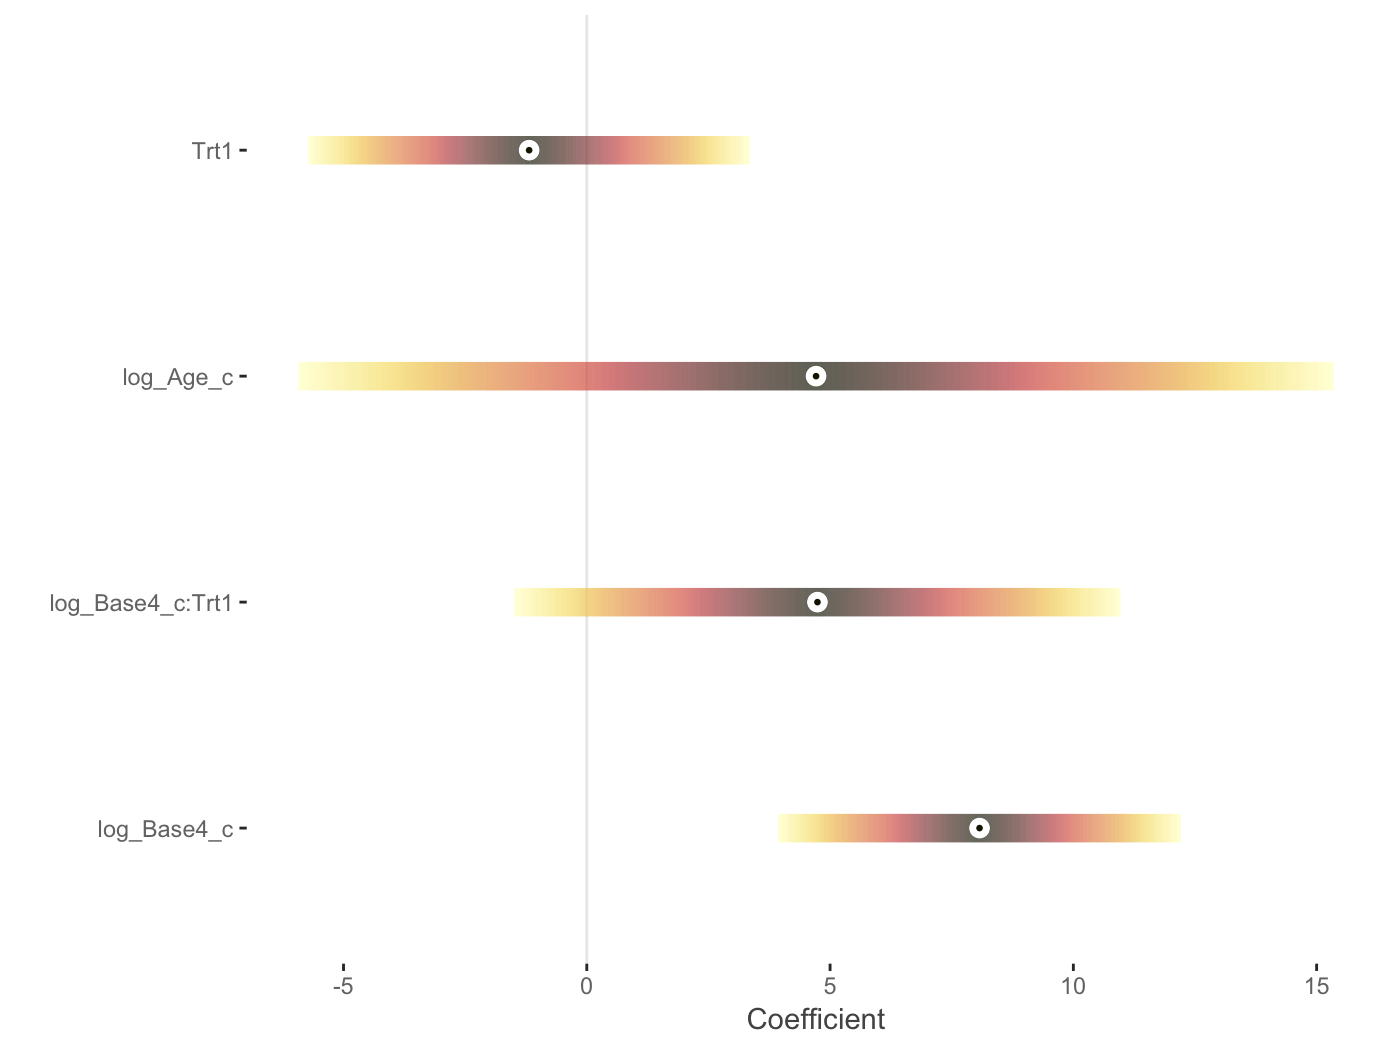
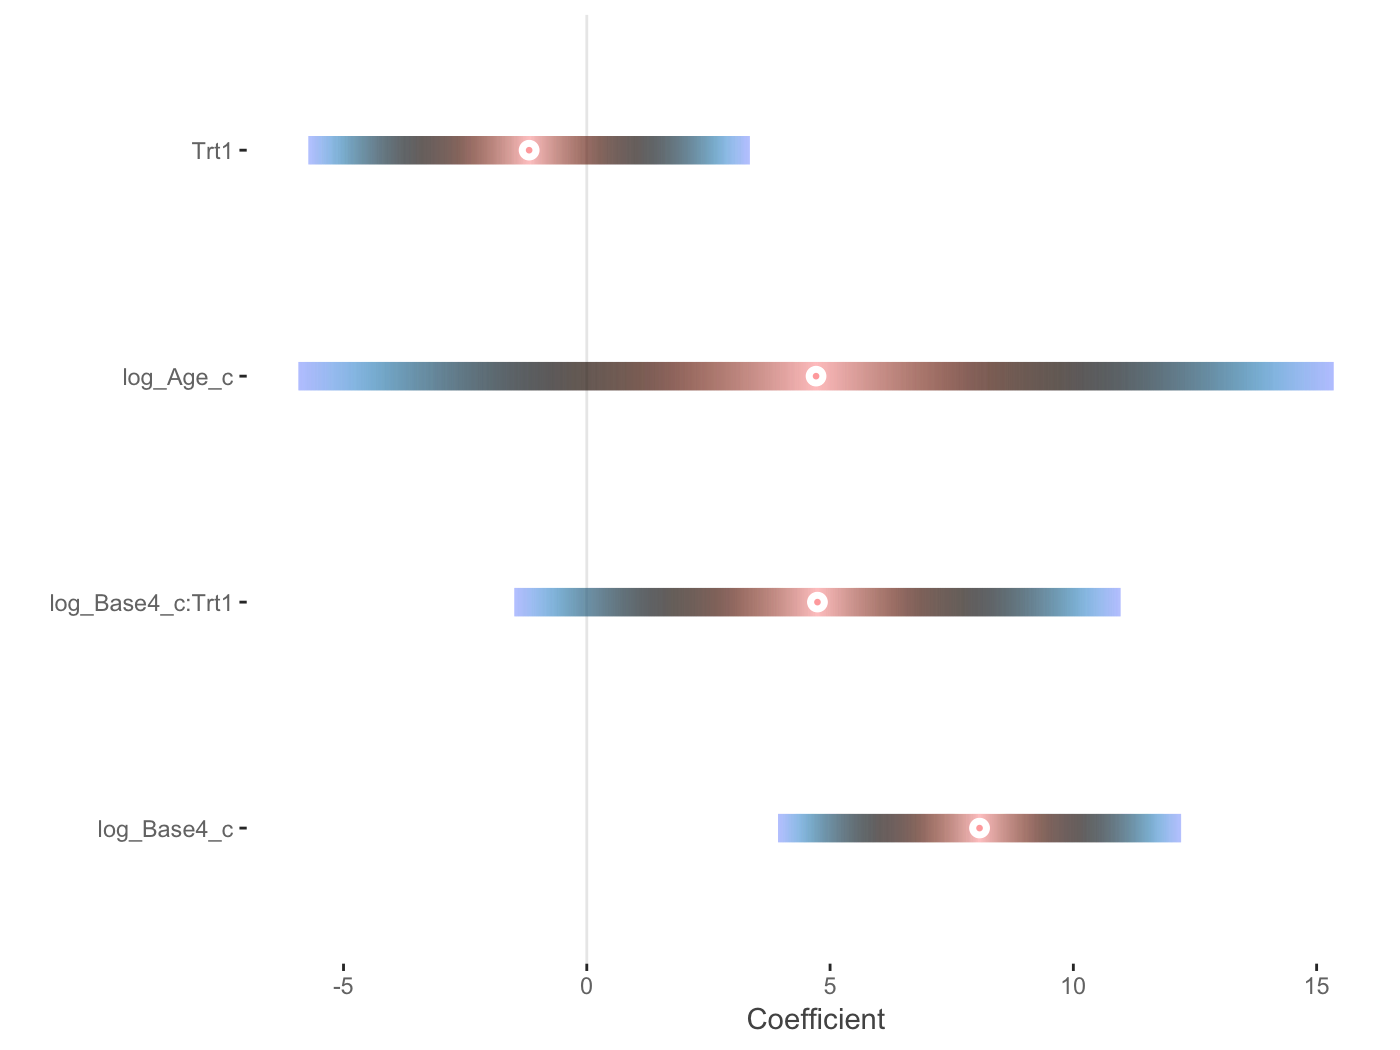
code cleanup

diff --git a/docs/index.html b/docs/index.html
@@ -109,7 +109,7 @@
 <div id="examples" class="section level2">
 <h2 class="hasAnchor">
 <a href="#examples" class="anchor"></a>Examples</h2>
-<p>Create a palette. This requires the <span class="pack">colortools</span> package to create equally spaced colors.</p>
+<p>Create a palette from a single starting point. This requires the <span class="pack">colortools</span> package to create equally spaced colors.</p>
 <div class="sourceCode" id="cb2"><pre class="sourceCode r"><code class="sourceCode r"><a class="sourceLine" id="cb2-1" data-line-number="1"><span class="kw">library</span>(visibly)</a>
 <a class="sourceLine" id="cb2-2" data-line-number="2"><span class="kw"><a href="reference/create_palette.html">create_palette</a></span>(<span class="st">'papayawhip'</span>)</a>
 <a class="sourceLine" id="cb2-3" data-line-number="3"><span class="op">$</span>papayawhip</a>
@@ -209,8 +209,8 @@ $tetradic
 <a class="sourceLine" id="cb8-3" data-line-number="3"><span class="st">  </span><span class="kw"><a href="http://www.rdocumentation.org/packages/plotly/topics/plot_ly">plot_ly</a></span>(<span class="dt">x=</span><span class="op">~</span>wt, <span class="dt">y=</span><span class="op">~</span>mpg, <span class="dt">color=</span><span class="op">~</span>cyl) <span class="op">%&gt;%</span><span class="st"> </span></a>
 <a class="sourceLine" id="cb8-4" data-line-number="4"><span class="st">  </span><span class="kw"><a href="http://www.rdocumentation.org/packages/plotly/topics/add_trace">add_markers</a></span>(<span class="dt">size =</span><span class="op">~</span><span class="st"> </span><span class="kw">I</span>(<span class="dv">20</span>)) <span class="op">%&gt;%</span><span class="st"> </span></a>
 <a class="sourceLine" id="cb8-5" data-line-number="5"><span class="st">  </span><span class="kw"><a href="reference/theme_trueMinimal.html">theme_plotly</a></span>()</a></code></pre></div>
-<div id="96e615ef844" style="width:75%;height:525.0000024px;" class="plotly html-widget"></div>
-<script type="application/json" data-for="96e615ef844">{"x":{"visdat":{"96e63f862ab9":["function () ","plotlyVisDat"]},"cur_data":"96e63f862ab9","attrs":{"96e63f862ab9":{"x":{},"y":{},"color":{},"alpha":1,"sizes":[10,100],"type":"scatter","mode":"markers","size":{}}},"layout":{"margin":{"b":40,"l":60,"t":25,"r":10},"xaxis":{"domain":[0,1],"zeroline":false,"showgrid":false,"title":"wt"},"yaxis":{"domain":[0,1],"zeroline":false,"showgrid":false,"title":"mpg"},"plot_bgcolor":"transparent","paper_bgcolor":"transparent","hovermode":"closest","showlegend":false,"legend":{"y":0.5,"yanchor":"top"}},"source":"A","config":{"modeBarButtonsToAdd":[{"name":"Collaborate","icon":{"width":1000,"ascent":500,"descent":-50,"path":"M487 375c7-10 9-23 5-36l-79-259c-3-12-11-23-22-31-11-8-22-12-35-12l-263 0c-15 0-29 5-43 15-13 10-23 23-28 37-5 13-5 25-1 37 0 0 0 3 1 7 1 5 1 8 1 11 0 2 0 4-1 6 0 3-1 5-1 6 1 2 2 4 3 6 1 2 2 4 4 6 2 3 4 5 5 7 5 7 9 16 13 26 4 10 7 19 9 26 0 2 0 5 0 9-1 4-1 6 0 8 0 2 2 5 4 8 3 3 5 5 5 7 4 6 8 15 12 26 4 11 7 19 7 26 1 1 0 4 0 9-1 4-1 7 0 8 1 2 3 5 6 8 4 4 6 6 6 7 4 5 8 13 13 24 4 11 7 20 7 28 1 1 0 4 0 7-1 3-1 6-1 7 0 2 1 4 3 6 1 1 3 4 5 6 2 3 3 5 5 6 1 2 3 5 4 9 2 3 3 7 5 10 1 3 2 6 4 10 2 4 4 7 6 9 2 3 4 5 7 7 3 2 7 3 11 3 3 0 8 0 13-1l0-1c7 2 12 2 14 2l218 0c14 0 25-5 32-16 8-10 10-23 6-37l-79-259c-7-22-13-37-20-43-7-7-19-10-37-10l-248 0c-5 0-9-2-11-5-2-3-2-7 0-12 4-13 18-20 41-20l264 0c5 0 10 2 16 5 5 3 8 6 10 11l85 282c2 5 2 10 2 17 7-3 13-7 17-13z m-304 0c-1-3-1-5 0-7 1-1 3-2 6-2l174 0c2 0 4 1 7 2 2 2 4 4 5 7l6 18c0 3 0 5-1 7-1 1-3 2-6 2l-173 0c-3 0-5-1-8-2-2-2-4-4-4-7z m-24-73c-1-3-1-5 0-7 2-2 3-2 6-2l174 0c2 0 5 0 7 2 3 2 4 4 5 7l6 18c1 2 0 5-1 6-1 2-3 3-5 3l-174 0c-3 0-5-1-7-3-3-1-4-4-5-6z"},"click":"function(gd) { \n        // is this being viewed in RStudio?\n        if (location.search == '?viewer_pane=1') {\n          alert('To learn about plotly for collaboration, visit:\\n https://cpsievert.github.io/plotly_book/plot-ly-for-collaboration.html');\n        } else {\n          window.open('https://cpsievert.github.io/plotly_book/plot-ly-for-collaboration.html', '_blank');\n        }\n      }"}],"cloud":false,"displayModeBar":false},"data":[{"x":[2.62,2.875,2.32,3.215,3.44,3.46,3.57,3.19,3.15,3.44,3.44,4.07,3.73,3.78,5.25,5.424,5.345,2.2,1.615,1.835,2.465,3.52,3.435,3.84,3.845,1.935,2.14,1.513,3.17,2.77,3.57,2.78],"y":[21,21,22.8,21.4,18.7,18.1,14.3,24.4,22.8,19.2,17.8,16.4,17.3,15.2,10.4,10.4,14.7,32.4,30.4,33.9,21.5,15.5,15.2,13.3,19.2,27.3,26,30.4,15.8,19.7,15,21.4],"type":"scatter","mode":"markers","marker":{"size":20,"sizemode":"area","colorbar":{"title":"cyl","ticklen":2},"cmin":4,"cmax":8,"colorscale":[["0","rgba(68,1,84,1)"],["0.166666666666666","rgba(68,58,128,1)"],["0.5","rgba(37,144,140,1)"],["1","rgba(253,231,37,1)"]],"showscale":false,"color":[6,6,4,6,8,6,8,4,4,6,6,8,8,8,8,8,8,4,4,4,4,8,8,8,8,4,4,4,8,6,8,4],"line":{"color":"transparent"}},"xaxis":"x","yaxis":"y","frame":null},{"x":[1.513,5.424],"y":[10.4,33.9],"type":"scatter","mode":"markers","opacity":0,"hoverinfo":"none","showlegend":false,"marker":{"colorbar":{"title":"cyl","ticklen":2,"len":0.5,"y":1,"lenmode":"fraction","yanchor":"top"},"cmin":4,"cmax":8,"colorscale":[["0","rgba(68,1,84,1)"],["0.166666666666666","rgba(68,58,128,1)"],["0.5","rgba(37,144,140,1)"],["1","rgba(253,231,37,1)"]],"showscale":true,"color":[4,8]},"xaxis":"x","yaxis":"y","frame":null}],"highlight":{"on":"plotly_click","persistent":false,"dynamic":false,"selectize":false,"opacityDim":0.2,"selected":{"opacity":1}},"base_url":"https://plot.ly"},"evals":["config.modeBarButtonsToAdd.0.click"],"jsHooks":{"render":[{"code":"function(el, x) { var ctConfig = crosstalk.var('plotlyCrosstalkOpts').set({\"on\":\"plotly_click\",\"persistent\":false,\"dynamic\":false,\"selectize\":false,\"opacityDim\":0.2,\"selected\":{\"opacity\":1}}); }","data":null}]}}</script><p>Plot some model coefficients. Requires the <span class="pack">scico</span> package.</p>
+<div id="af863f81a3f3" style="width:75%;height:525.0000024px;" class="plotly html-widget"></div>
+<script type="application/json" data-for="af863f81a3f3">{"x":{"visdat":{"af867a5e3750":["function () ","plotlyVisDat"]},"cur_data":"af867a5e3750","attrs":{"af867a5e3750":{"x":{},"y":{},"color":{},"alpha":1,"sizes":[10,100],"type":"scatter","mode":"markers","size":{}}},"layout":{"margin":{"b":40,"l":60,"t":25,"r":10},"xaxis":{"domain":[0,1],"zeroline":false,"showgrid":false,"title":"wt"},"yaxis":{"domain":[0,1],"zeroline":false,"showgrid":false,"title":"mpg"},"plot_bgcolor":"transparent","paper_bgcolor":"transparent","hovermode":"closest","showlegend":false,"legend":{"y":0.5,"yanchor":"top"}},"source":"A","config":{"modeBarButtonsToAdd":[{"name":"Collaborate","icon":{"width":1000,"ascent":500,"descent":-50,"path":"M487 375c7-10 9-23 5-36l-79-259c-3-12-11-23-22-31-11-8-22-12-35-12l-263 0c-15 0-29 5-43 15-13 10-23 23-28 37-5 13-5 25-1 37 0 0 0 3 1 7 1 5 1 8 1 11 0 2 0 4-1 6 0 3-1 5-1 6 1 2 2 4 3 6 1 2 2 4 4 6 2 3 4 5 5 7 5 7 9 16 13 26 4 10 7 19 9 26 0 2 0 5 0 9-1 4-1 6 0 8 0 2 2 5 4 8 3 3 5 5 5 7 4 6 8 15 12 26 4 11 7 19 7 26 1 1 0 4 0 9-1 4-1 7 0 8 1 2 3 5 6 8 4 4 6 6 6 7 4 5 8 13 13 24 4 11 7 20 7 28 1 1 0 4 0 7-1 3-1 6-1 7 0 2 1 4 3 6 1 1 3 4 5 6 2 3 3 5 5 6 1 2 3 5 4 9 2 3 3 7 5 10 1 3 2 6 4 10 2 4 4 7 6 9 2 3 4 5 7 7 3 2 7 3 11 3 3 0 8 0 13-1l0-1c7 2 12 2 14 2l218 0c14 0 25-5 32-16 8-10 10-23 6-37l-79-259c-7-22-13-37-20-43-7-7-19-10-37-10l-248 0c-5 0-9-2-11-5-2-3-2-7 0-12 4-13 18-20 41-20l264 0c5 0 10 2 16 5 5 3 8 6 10 11l85 282c2 5 2 10 2 17 7-3 13-7 17-13z m-304 0c-1-3-1-5 0-7 1-1 3-2 6-2l174 0c2 0 4 1 7 2 2 2 4 4 5 7l6 18c0 3 0 5-1 7-1 1-3 2-6 2l-173 0c-3 0-5-1-8-2-2-2-4-4-4-7z m-24-73c-1-3-1-5 0-7 2-2 3-2 6-2l174 0c2 0 5 0 7 2 3 2 4 4 5 7l6 18c1 2 0 5-1 6-1 2-3 3-5 3l-174 0c-3 0-5-1-7-3-3-1-4-4-5-6z"},"click":"function(gd) { \n        // is this being viewed in RStudio?\n        if (location.search == '?viewer_pane=1') {\n          alert('To learn about plotly for collaboration, visit:\\n https://cpsievert.github.io/plotly_book/plot-ly-for-collaboration.html');\n        } else {\n          window.open('https://cpsievert.github.io/plotly_book/plot-ly-for-collaboration.html', '_blank');\n        }\n      }"}],"cloud":false,"displayModeBar":false},"data":[{"x":[2.62,2.875,2.32,3.215,3.44,3.46,3.57,3.19,3.15,3.44,3.44,4.07,3.73,3.78,5.25,5.424,5.345,2.2,1.615,1.835,2.465,3.52,3.435,3.84,3.845,1.935,2.14,1.513,3.17,2.77,3.57,2.78],"y":[21,21,22.8,21.4,18.7,18.1,14.3,24.4,22.8,19.2,17.8,16.4,17.3,15.2,10.4,10.4,14.7,32.4,30.4,33.9,21.5,15.5,15.2,13.3,19.2,27.3,26,30.4,15.8,19.7,15,21.4],"type":"scatter","mode":"markers","marker":{"size":20,"sizemode":"area","colorbar":{"title":"cyl","ticklen":2},"cmin":4,"cmax":8,"colorscale":[["0","rgba(68,1,84,1)"],["0.166666666666666","rgba(68,58,128,1)"],["0.5","rgba(37,144,140,1)"],["1","rgba(253,231,37,1)"]],"showscale":false,"color":[6,6,4,6,8,6,8,4,4,6,6,8,8,8,8,8,8,4,4,4,4,8,8,8,8,4,4,4,8,6,8,4],"line":{"color":"transparent"}},"xaxis":"x","yaxis":"y","frame":null},{"x":[1.513,5.424],"y":[10.4,33.9],"type":"scatter","mode":"markers","opacity":0,"hoverinfo":"none","showlegend":false,"marker":{"colorbar":{"title":"cyl","ticklen":2,"len":0.5,"y":1,"lenmode":"fraction","yanchor":"top"},"cmin":4,"cmax":8,"colorscale":[["0","rgba(68,1,84,1)"],["0.166666666666666","rgba(68,58,128,1)"],["0.5","rgba(37,144,140,1)"],["1","rgba(253,231,37,1)"]],"showscale":true,"color":[4,8]},"xaxis":"x","yaxis":"y","frame":null}],"highlight":{"on":"plotly_click","persistent":false,"dynamic":false,"selectize":false,"opacityDim":0.2,"selected":{"opacity":1}},"base_url":"https://plot.ly"},"evals":["config.modeBarButtonsToAdd.0.click"],"jsHooks":{"render":[{"code":"function(el, x) { var ctConfig = crosstalk.var('plotlyCrosstalkOpts').set({\"on\":\"plotly_click\",\"persistent\":false,\"dynamic\":false,\"selectize\":false,\"opacityDim\":0.2,\"selected\":{\"opacity\":1}}); }","data":null}]}}</script><p>Plot some model coefficients. Requires the <span class="pack">scico</span> package.</p>
 <div class="sourceCode" id="cb9"><pre class="sourceCode r"><code class="sourceCode r"><a class="sourceLine" id="cb9-1" data-line-number="1">fit_lm =<span class="st"> </span><span class="kw">lm</span>(mpg <span class="op">~</span><span class="st"> </span>., mtcars)</a>
 <a class="sourceLine" id="cb9-2" data-line-number="2"><span class="kw"><a href="reference/plot_coefficients.html">plot_coefficients</a></span>(fit_lm)</a></code></pre></div>
 <p><img src="reference/figures/README-lm0-1.png" width="75%" style="display: block; margin: auto;"></p>
@@ -251,6 +251,7 @@ $tetradic
 <h2>Dev status</h2>
 <ul class="list-unstyled">
 <li><a href="https://travis-ci.org/m-clark/visibly"><img src="https://travis-ci.org/m-clark/visibly.svg?branch=master" alt="Build Status"></a></li>
+<li><a href="https://ci.appveyor.com/project/m-clark/visibly"><img src="https://ci.appveyor.com/api/projects/status/github/m-clark/visibly?branch=master&amp;svg=true" alt="AppVeyor Build Status"></a></li>
 <li><a href="https://codecov.io/github/m-clark/visibly?branch=master"><img src="https://img.shields.io/codecov/c/github/m-clark/visibly/master.svg" alt="Coverage Status"></a></li>
 </ul>
 </div>

diff --git a/docs/reference/theme_trueMinimal.html b/docs/reference/theme_trueMinimal.html
@@ -166,22 +166,16 @@ plot.</p>
 
     <h2 class="hasAnchor" id="examples"><a class="anchor" href="#examples"></a>Examples</h2>
     <pre class="examples"><div class='input'><span class='fu'>library</span>(<span class='no'>visibly</span>)
-<span class='fu'>library</span>(<span class='no'>ggplot2</span>)</div><div class='output co'>#&gt; <span class='message'>Want to understand how all the pieces fit together? See the R for Data</span>
-#&gt; <span class='message'>Science book: http://r4ds.had.co.nz/</span></div><div class='input'>
+<span class='fu'>library</span>(<span class='no'>ggplot2</span>)
+
 <span class='fu'>data</span>(<span class='no'>mtcars</span>)
 
 <span class='fu'><a href='http://www.rdocumentation.org/packages/ggplot2/topics/ggplot'>ggplot</a></span>(<span class='fu'><a href='http://www.rdocumentation.org/packages/ggplot2/topics/aes'>aes</a></span>(<span class='no'>wt</span>, <span class='no'>mpg</span>), <span class='kw'>data</span><span class='kw'>=</span><span class='no'>mtcars</span>) +
   <span class='fu'><a href='http://www.rdocumentation.org/packages/ggplot2/topics/geom_point'>geom_point</a></span>() +
   <span class='fu'><a href='http://www.rdocumentation.org/packages/ggplot2/topics/labs'>labs</a></span>(<span class='kw'>title</span><span class='kw'>=</span><span class='st'>'Plot'</span>) +
   <span class='fu'>theme_trueMinimal</span>()</div><div class='img'><img src='theme_trueMinimal-1.png' alt='' width='700' height='1133' /></div><div class='input'>
-<span class='fu'>library</span>(<span class='no'>plotly</span>)</div><div class='output co'>#&gt; <span class='message'></span>
-#&gt; <span class='message'>Attaching package: ‘plotly’</span></div><div class='output co'>#&gt; <span class='message'>The following object is masked from ‘package:ggplot2’:</span>
-#&gt; <span class='message'></span>
-#&gt; <span class='message'>    last_plot</span></div><div class='output co'>#&gt; <span class='message'>The following object is masked from ‘package:stats’:</span>
-#&gt; <span class='message'></span>
-#&gt; <span class='message'>    filter</span></div><div class='output co'>#&gt; <span class='message'>The following object is masked from ‘package:graphics’:</span>
-#&gt; <span class='message'></span>
-#&gt; <span class='message'>    layout</span></div><div class='input'><span class='no'>mtcars</span> <span class='kw'>%&gt;%</span>
+<span class='fu'>library</span>(<span class='no'>plotly</span>)
+<span class='no'>mtcars</span> <span class='kw'>%&gt;%</span>
   <span class='fu'><a href='http://www.rdocumentation.org/packages/plotly/topics/plot_ly'>plot_ly</a></span>(<span class='kw'>x</span><span class='kw'>=</span>~<span class='no'>wt</span>, <span class='kw'>y</span><span class='kw'>=</span>~<span class='no'>mpg</span>, <span class='kw'>mode</span><span class='kw'>=</span><span class='st'>'markers'</span>) <span class='kw'>%&gt;%</span>
   <span class='fu'>theme_plotly</span>()</div><div class='output co'>#&gt; <span class='message'>No trace type specified:</span>
 #&gt; <span class='message'>  Based on info supplied, a 'scatter' trace seems appropriate.</span>

diff --git a/docs/articles/intro.html b/docs/articles/intro.html
@@ -83,7 +83,7 @@
       <h1>An Introduction to Visibly</h1>
                         <h4 class="author">Michael Clark</h4>
             
-            <h4 class="date"><span style="font-style:normal;font-family:'Open Sans'">2018-06-21</span></h4>
+            <h4 class="date"><span style="font-style:normal;font-family:'Open Sans'">2018-06-22</span></h4>
       
       <small class="dont-index">Source: <a href="https://github.com/m-clark/visibly/blob/master/vignettes/intro.Rmd"><code>vignettes/intro.Rmd</code></a></small>
       <div class="hidden name"><code>intro.Rmd</code></div>
@@ -233,7 +233,7 @@ $Days</code></pre>
 <a class="sourceLine" id="cb15-2" data-line-number="2"><span class="st">                  </span>(<span class="dv">1</span> <span class="op">|</span><span class="st"> </span>patient), </a>
 <a class="sourceLine" id="cb15-3" data-line-number="3">                <span class="dt">data =</span> brms<span class="op">::</span>epilepsy)</a>
 <a class="sourceLine" id="cb15-4" data-line-number="4"><span class="kw"><a href="../reference/plot_coefficients.html">plot_coefficients</a></span>(fit_mer2, </a>
-<a class="sourceLine" id="cb15-5" data-line-number="5">                  <span class="dt">palette =</span> <span class="st">'lajolla'</span>)</a></code></pre></div>
+<a class="sourceLine" id="cb15-5" data-line-number="5">                  <span class="dt">palette =</span> <span class="st">'berlin'</span>)</a></code></pre></div>
 <p><img src="intro_files/figure-html/fe2-1.png" width="75%" style="display: block; margin: auto;"></p>
 <p>You can use <span class="pack">patchwork</span> to put them into one graph.</p>
 <div class="sourceCode" id="cb16"><pre class="sourceCode r"><code class="sourceCode r"><a class="sourceLine" id="cb16-1" data-line-number="1">plots =<span class="st"> </span><span class="kw"><a href="../reference/plot_coefficients.html">plot_coefficients</a></span>(fit_mer, <span class="dt">ranef =</span> <span class="ot">TRUE</span>, <span class="dt">which_ranef =</span> <span class="st">'Subject'</span>)</a>

diff --git a/docs/reference/plot_coefficients.merMod.html b/docs/reference/plot_coefficients.merMod.html
@@ -198,7 +198,8 @@ different scale than covariate effects.</p></td>
     
 
     <h2 class="hasAnchor" id="examples"><a class="anchor" href="#examples"></a>Examples</h2>
-    <pre class="examples"><div class='input'><span class='fu'>library</span>(<span class='no'>lme4</span>)</div><div class='output co'>#&gt; <span class='message'>Loading required package: Matrix</span></div><div class='input'><span class='no'>fit_mer</span> <span class='kw'>=</span> <span class='fu'><a href='http://www.rdocumentation.org/packages/lme4/topics/lmer'>lmer</a></span>(<span class='no'>Reaction</span> ~ <span class='no'>Days</span> + (<span class='no'>Days</span><span class='kw'>|</span><span class='no'>Subject</span>), <span class='no'>sleepstudy</span>)
+    <pre class="examples"><div class='input'><span class='fu'>library</span>(<span class='no'>lme4</span>)
+<span class='no'>fit_mer</span> <span class='kw'>=</span> <span class='fu'><a href='http://www.rdocumentation.org/packages/lme4/topics/lmer'>lmer</a></span>(<span class='no'>Reaction</span> ~ <span class='no'>Days</span> + (<span class='no'>Days</span><span class='kw'>|</span><span class='no'>Subject</span>), <span class='no'>sleepstudy</span>)
 <span class='fu'><a href='plot_coefficients.html'>plot_coefficients</a></span>(<span class='no'>fit_mer</span>, <span class='kw'>ranef</span> <span class='kw'>=</span> <span class='fl'>TRUE</span>, <span class='kw'>which_ranef</span> <span class='kw'>=</span> <span class='st'>'Subject'</span>)</div><div class='output co'>#&gt; $`(Intercept)`</div><div class='img'><img src='plot_coefficients.merMod-1.png' alt='' width='700' height='1133' /></div><div class='output co'>#&gt; 
 #&gt; $Days</div><div class='img'><img src='plot_coefficients.merMod-2.png' alt='' width='700' height='1133' /></div><div class='output co'>#&gt; </div></pre>
   </div>
